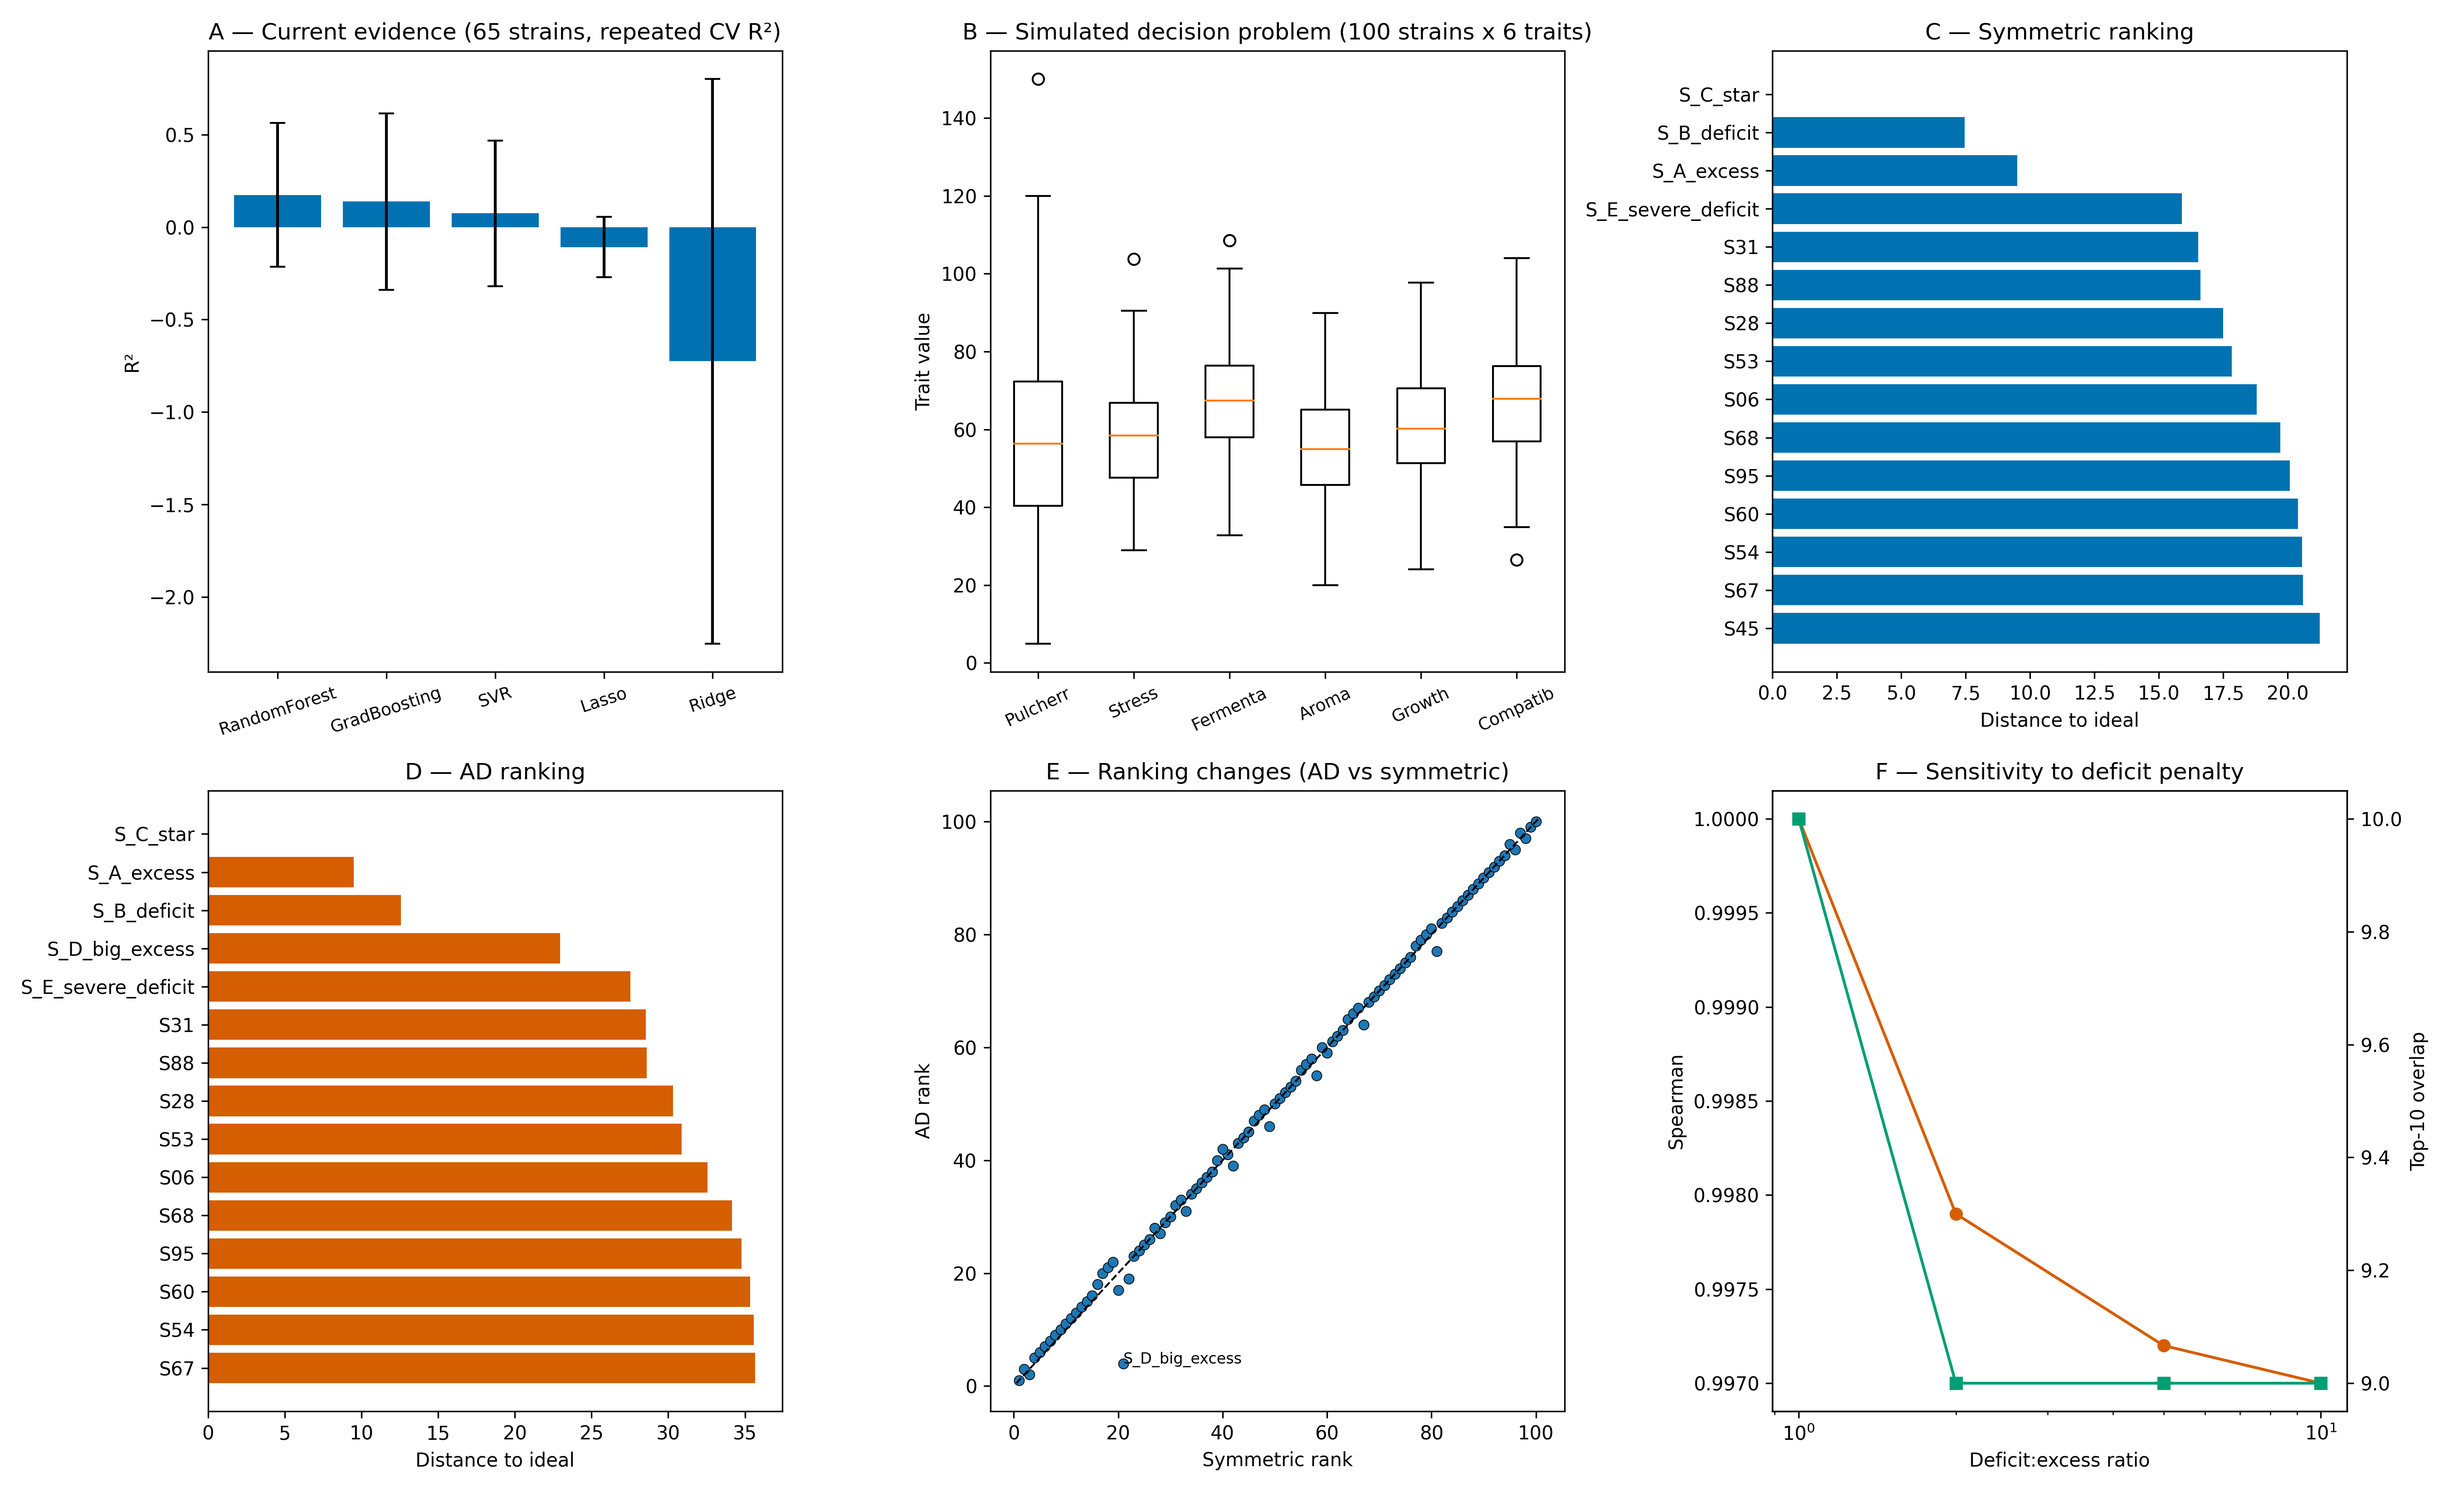
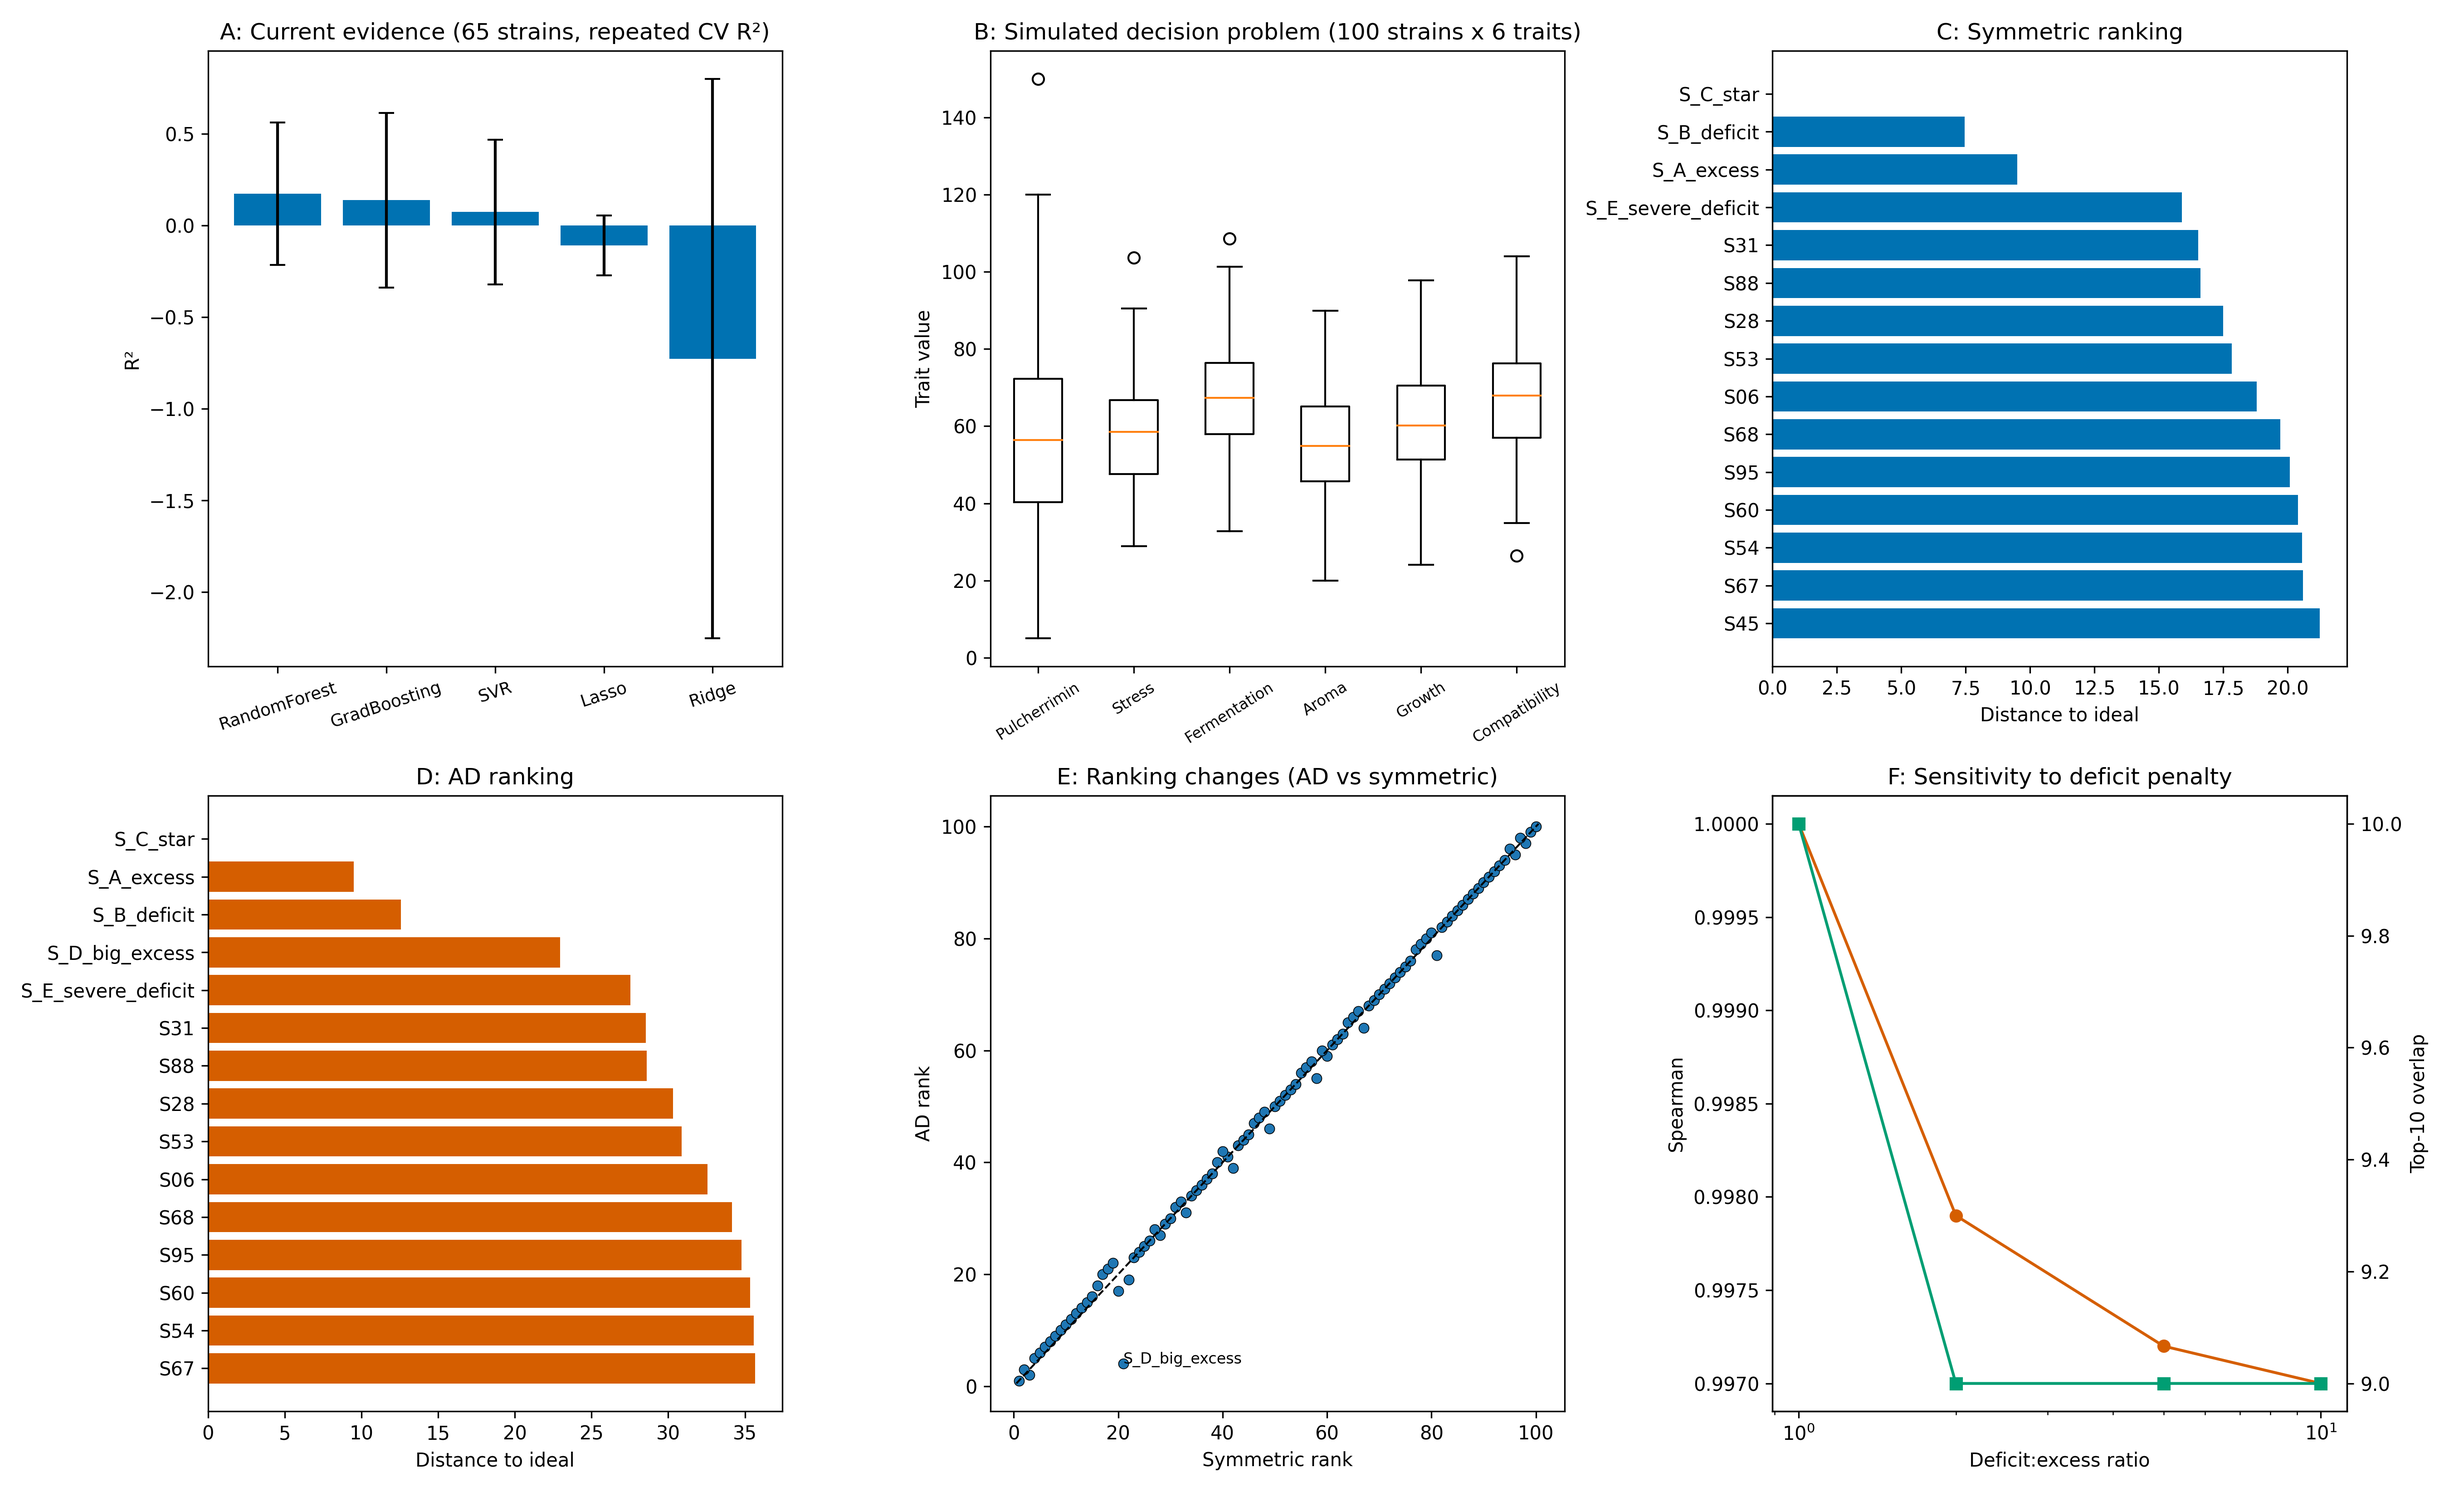
Figure 5: full panel labels, colon titles

diff --git a/AD_simulation/scripts/figure_5.py b/AD_simulation/scripts/figure_5.py
@@ -1,4 +1,4 @@
-# figure_5.py — composite Figure 5 (panels A-F). Reads results/*.csv +
+# figure_5.py: composite Figure 5 (panels A-F). Reads results/*.csv +
 # ../ML_remake/metrics.csv. Output: figures/Figure_5.png
 
 from pathlib import Path
@@ -27,17 +27,17 @@ ax = axes.flat
 # A: current evidence (real ML numbers)
 m = ml.set_index("model").loc[["RandomForest", "GradBoosting", "SVR", "Lasso", "Ridge"]]
 ax[0].bar(m.index, m["R2_mean"], yerr=m["R2_sd"], capsize=4, color="#0072B2")
-ax[0].set(title="A — Current evidence (65 strains, repeated CV R²)", ylabel="R²")
+ax[0].set(title="A: Current evidence (65 strains, repeated CV R²)", ylabel="R²")
 ax[0].tick_params(axis="x", labelrotation=18, labelsize=9)
 
 # B: simulated trait distributions
-ax[1].boxplot([df[t] for t in traits], labels=[t[:8] for t in traits])
-ax[1].tick_params(axis="x", labelrotation=25, labelsize=9)
-ax[1].set(title="B — Simulated decision problem (100 strains x 6 traits)", ylabel="Trait value")
+ax[1].boxplot([df[t] for t in traits], labels=list(traits))
+ax[1].tick_params(axis="x", labelrotation=32, labelsize=8)
+ax[1].set(title="B: Simulated decision problem (100 strains x 6 traits)", ylabel="Trait value")
 
 # C/D: top-15 bars both rankings (true distances, best at top)
-for j, (rkcol, dcol, ttl) in enumerate([("sym_rank", "sym_distance", "C — Symmetric ranking"),
-                                        ("ad_rank", "ad_distance", "D — AD ranking")]):
+for j, (rkcol, dcol, ttl) in enumerate([("sym_rank", "sym_distance", "C: Symmetric ranking"),
+                                        ("ad_rank", "ad_distance", "D: AD ranking")]):
     top = rk.nsmallest(15, rkcol).iloc[::-1]
     ax[2 + j].barh(top["Strain"], top[dcol], color="#0072B2" if j == 0 else "#D55E00")
     ax[2 + j].set(title=ttl, xlabel="Distance to ideal")
@@ -49,13 +49,13 @@ ax[4].plot([0.5, mx + 0.5], [0.5, mx + 0.5], "k--", lw=1)
 big = rk[np.abs(rk["rank_change"]) >= 5]
 for _, r in big.iterrows():
     ax[4].annotate(r["Strain"], (r["sym_rank"], r["ad_rank"]), fontsize=8)
-ax[4].set(title="E — Ranking changes (AD vs symmetric)", xlabel="Symmetric rank", ylabel="AD rank")
+ax[4].set(title="E: Ranking changes (AD vs symmetric)", xlabel="Symmetric rank", ylabel="AD rank")
 
 # F: sensitivity
 ax2 = ax[5].twinx()
 ax[5].plot(sens["deficit_ratio"], sens["spearman_vs_symmetric"], "o-", color="#D55E00", label="Spearman")
 ax2.plot(sens["deficit_ratio"], sens["top10_overlap"], "s-", color="#009E73", label="top-10 overlap")
-ax[5].set(title="F — Sensitivity to deficit penalty", xlabel="Deficit:excess ratio", ylabel="Spearman")
+ax[5].set(title="F: Sensitivity to deficit penalty", xlabel="Deficit:excess ratio", ylabel="Spearman")
 ax2.set_ylabel("Top-10 overlap")
 ax[5].set_xscale("log")
 
